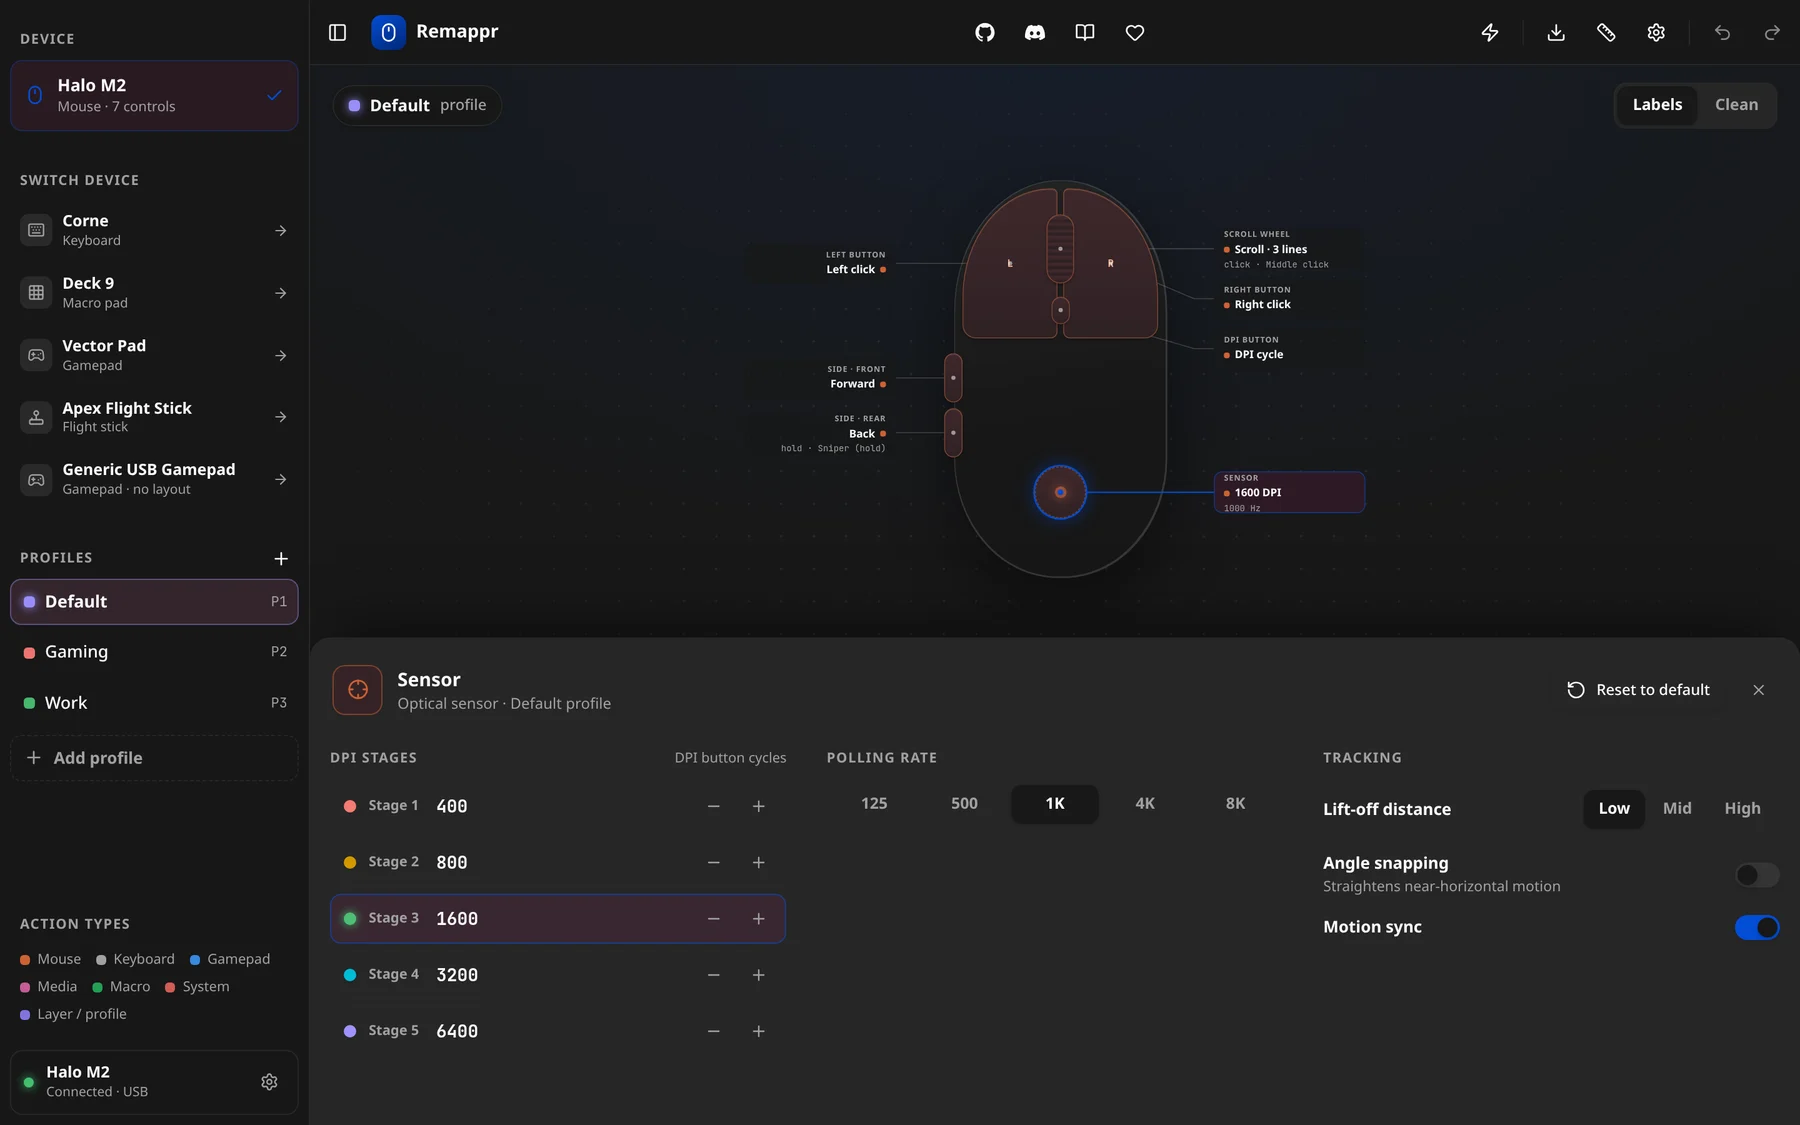
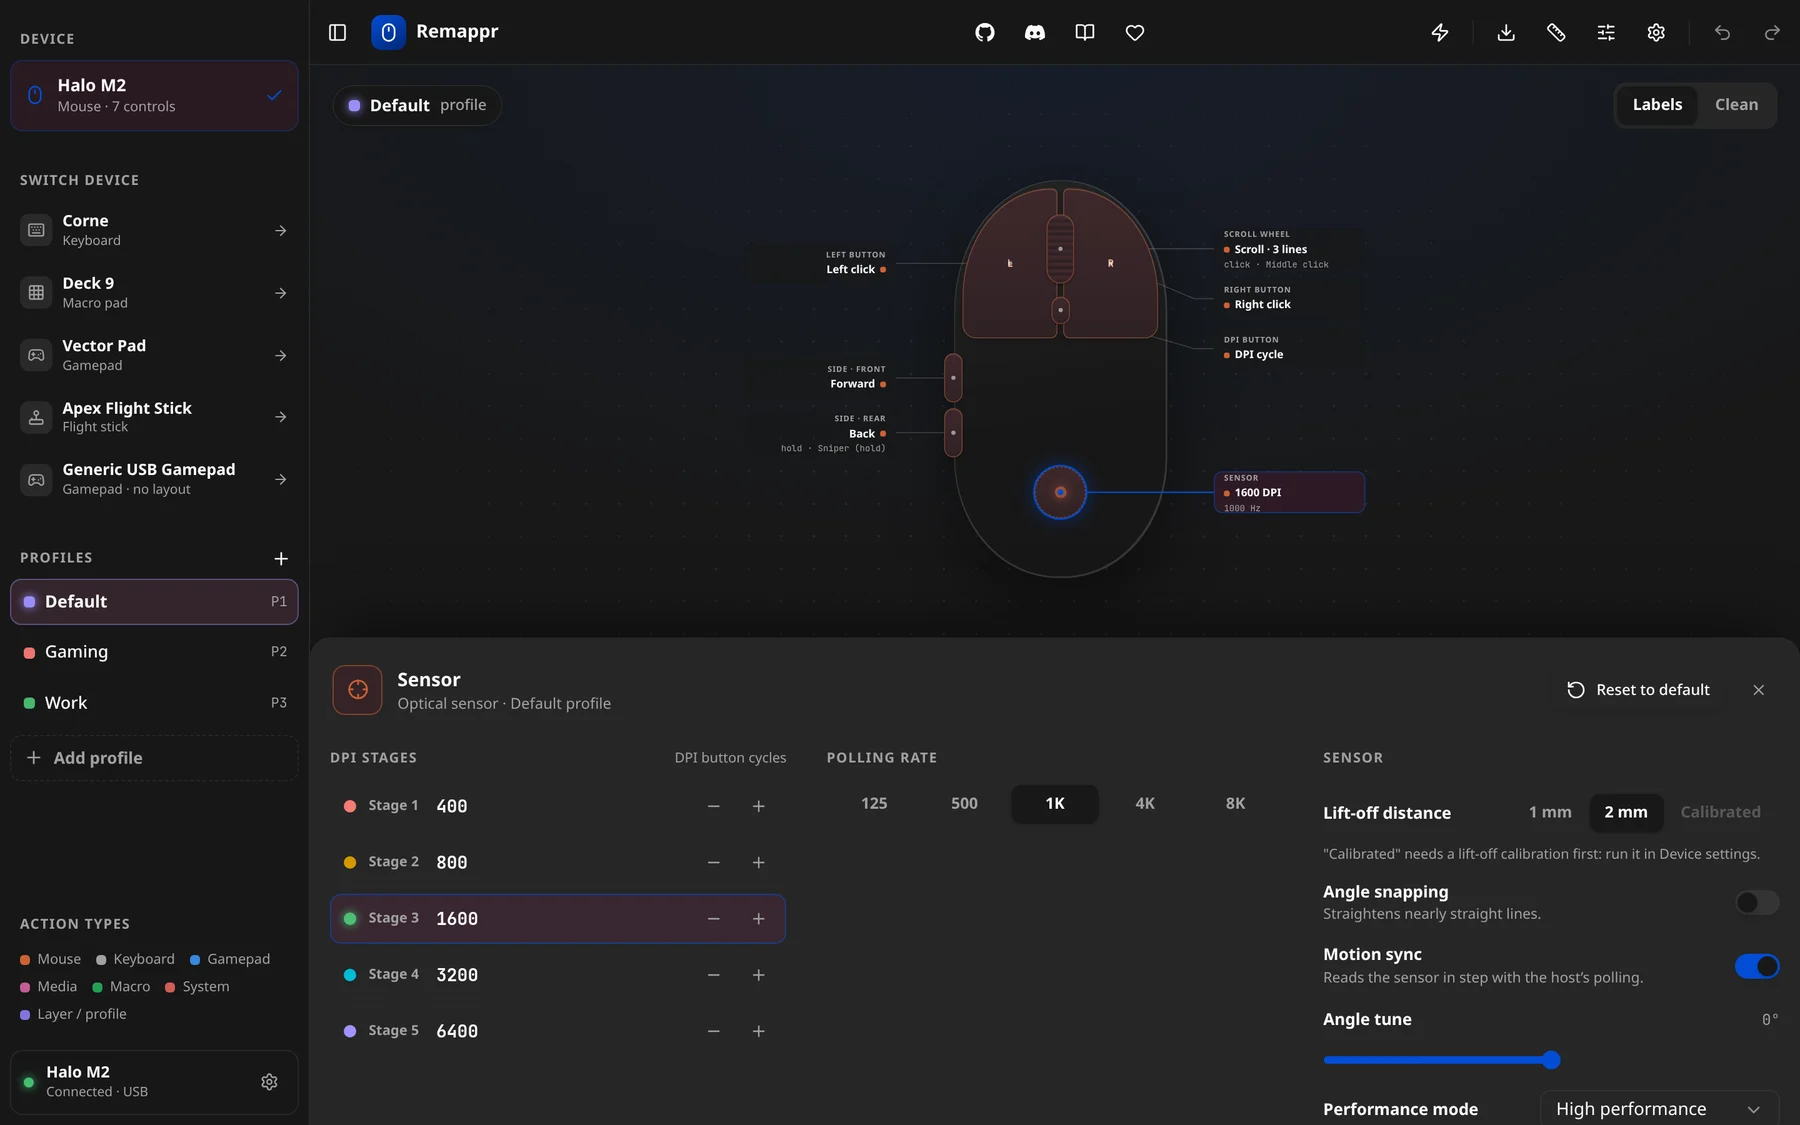
docs(mice): screenshots of the sensor settings and procedures
The Halo M2 demo, as the app draws it now: the editor shot refreshed (the
sheet's Sensor column replaced the old tracking block), the sensor's own
settings with "Calibrated" greyed out and its note, and Device settings
→ Sensor after a calibration (meter, Done, the stored-result line, Run
again, Forget).

The shots showed "High performance" clipped in the inspector's select;
the trigger is now wide enough for it (w-40 → w-48).

diff --git a/src/renderer/src/features/devices/inspector/SensorSettings.tsx b/src/renderer/src/features/devices/inspector/SensorSettings.tsx
@@ -160,7 +160,7 @@ function EnumRow({
                         disabled={disabled}
                         onValueChange={pick}
                     >
-                        <SelectTrigger className="h-8 w-40">
+                        <SelectTrigger className="h-8 w-48">
                             <SelectValue />
                         </SelectTrigger>
                         <SelectContent>

diff --git a/docs/guide/devices/mice.md b/docs/guide/devices/mice.md
@@ -62,6 +62,8 @@ puts it back to the mouse's default. A mouse built from a
 [JSON config](/reference/config/overview) can carry its own defaults, so
 "default" is the product's choice, not always the sensor's.
 
+![The sensor's settings in the inspector: Lift-off distance with Calibrated greyed out and a note to run the calibration in Device settings, Angle snapping, Motion sync, Angle tune, Performance mode and Advanced](/images/devices/sensor-settings.webp){width=400}
+
 **Calibrated** needs a lift-off calibration first. Until the mouse holds one,
 the option is greyed out with a note that says so; it opens the moment a
 calibration in Device settings finishes, and closes again if you forget the
@@ -89,6 +91,8 @@ The **Sensor** section of Device settings shows what the sensor reads right
 now, as meters: **Surface quality** (how well it sees the surface under it;
 higher is better, so slide the mouse over a few pads to compare them) and
 **Lifted**. The readings pause while a procedure needs the sensor.
+
+![Device settings, Sensor: the Surface quality meter, Lifted, and the Lift-off calibration done, with "A result is stored on this device", Run again and Forget the result](/images/devices/sensor-procedures.webp){width=560}
 
 It also runs the sensor's procedures. A PAW3395 has a **Lift-off
 calibration**, which measures your surface so the lift-off height fits it:

diff --git a/docs/guide/devices/device-editor.md b/docs/guide/devices/device-editor.md
@@ -5,7 +5,7 @@ same layout as the [keymap editor](/guide/editor): a sidebar on the left, the
 device in the middle, a toolbar in the header. The device is drawn from its
 controls, so a mouse looks like a mouse and a flight stick like a flight stick.
 
-![The Halo M2 demo mouse with its sensor selected: the DPI stages, polling rate and tracking sections in the sheet below the mouse](/images/devices/editor-mouse.webp)
+![The Halo M2 demo mouse with its sensor selected: the DPI stages, polling rate and the sensor's own settings in the sheet below the mouse](/images/devices/editor-mouse.webp)
 
 ## The sidebar
 
